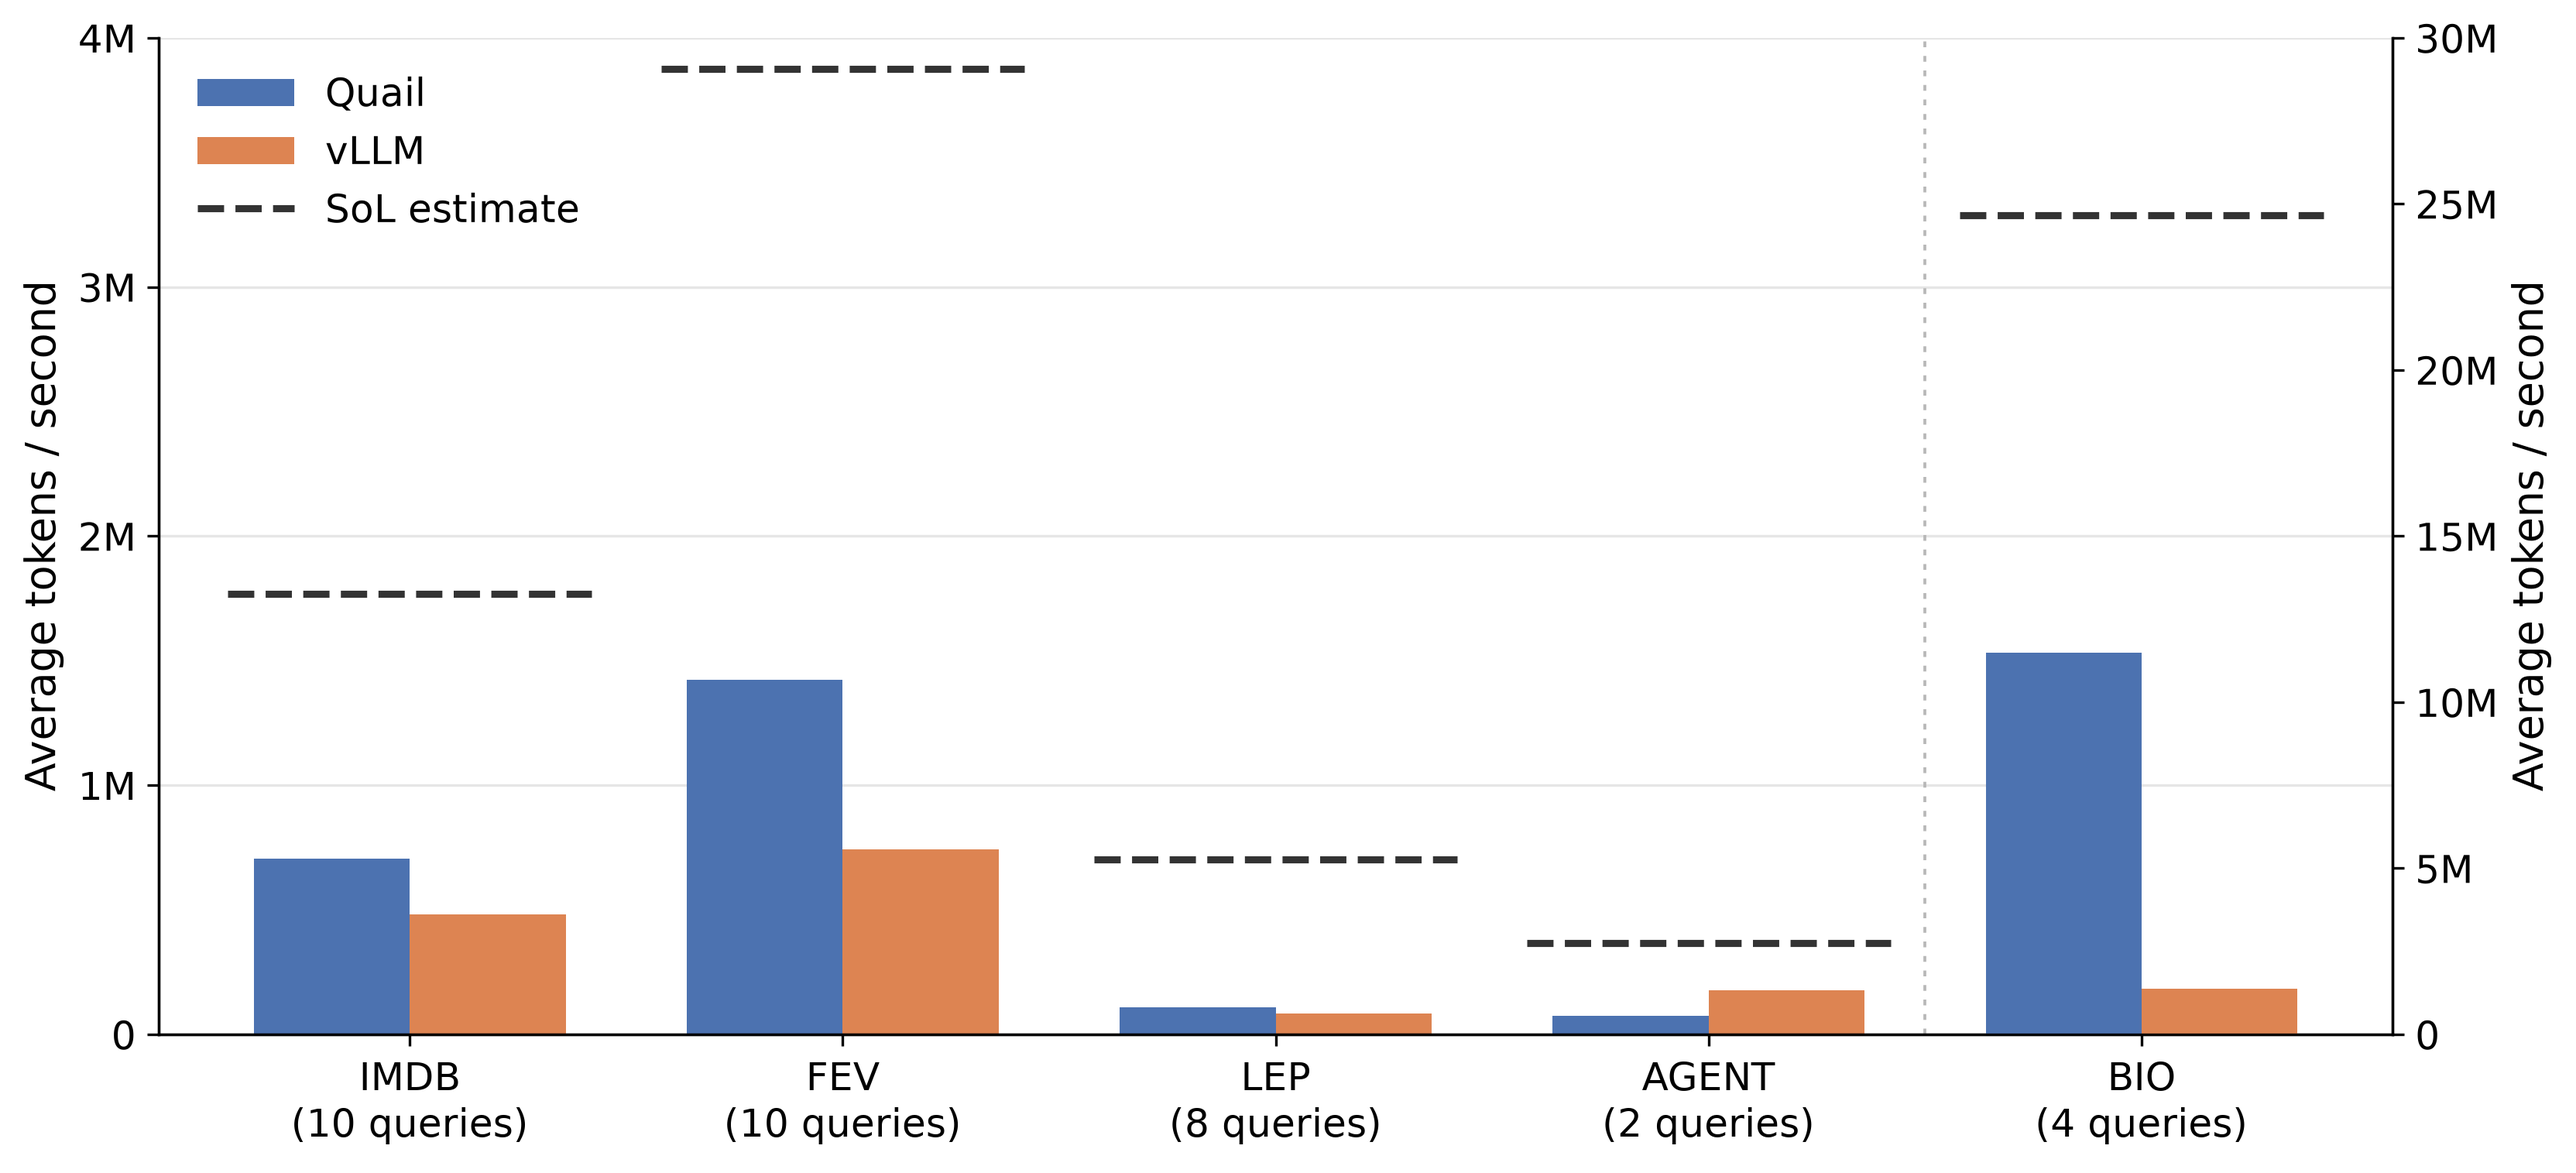
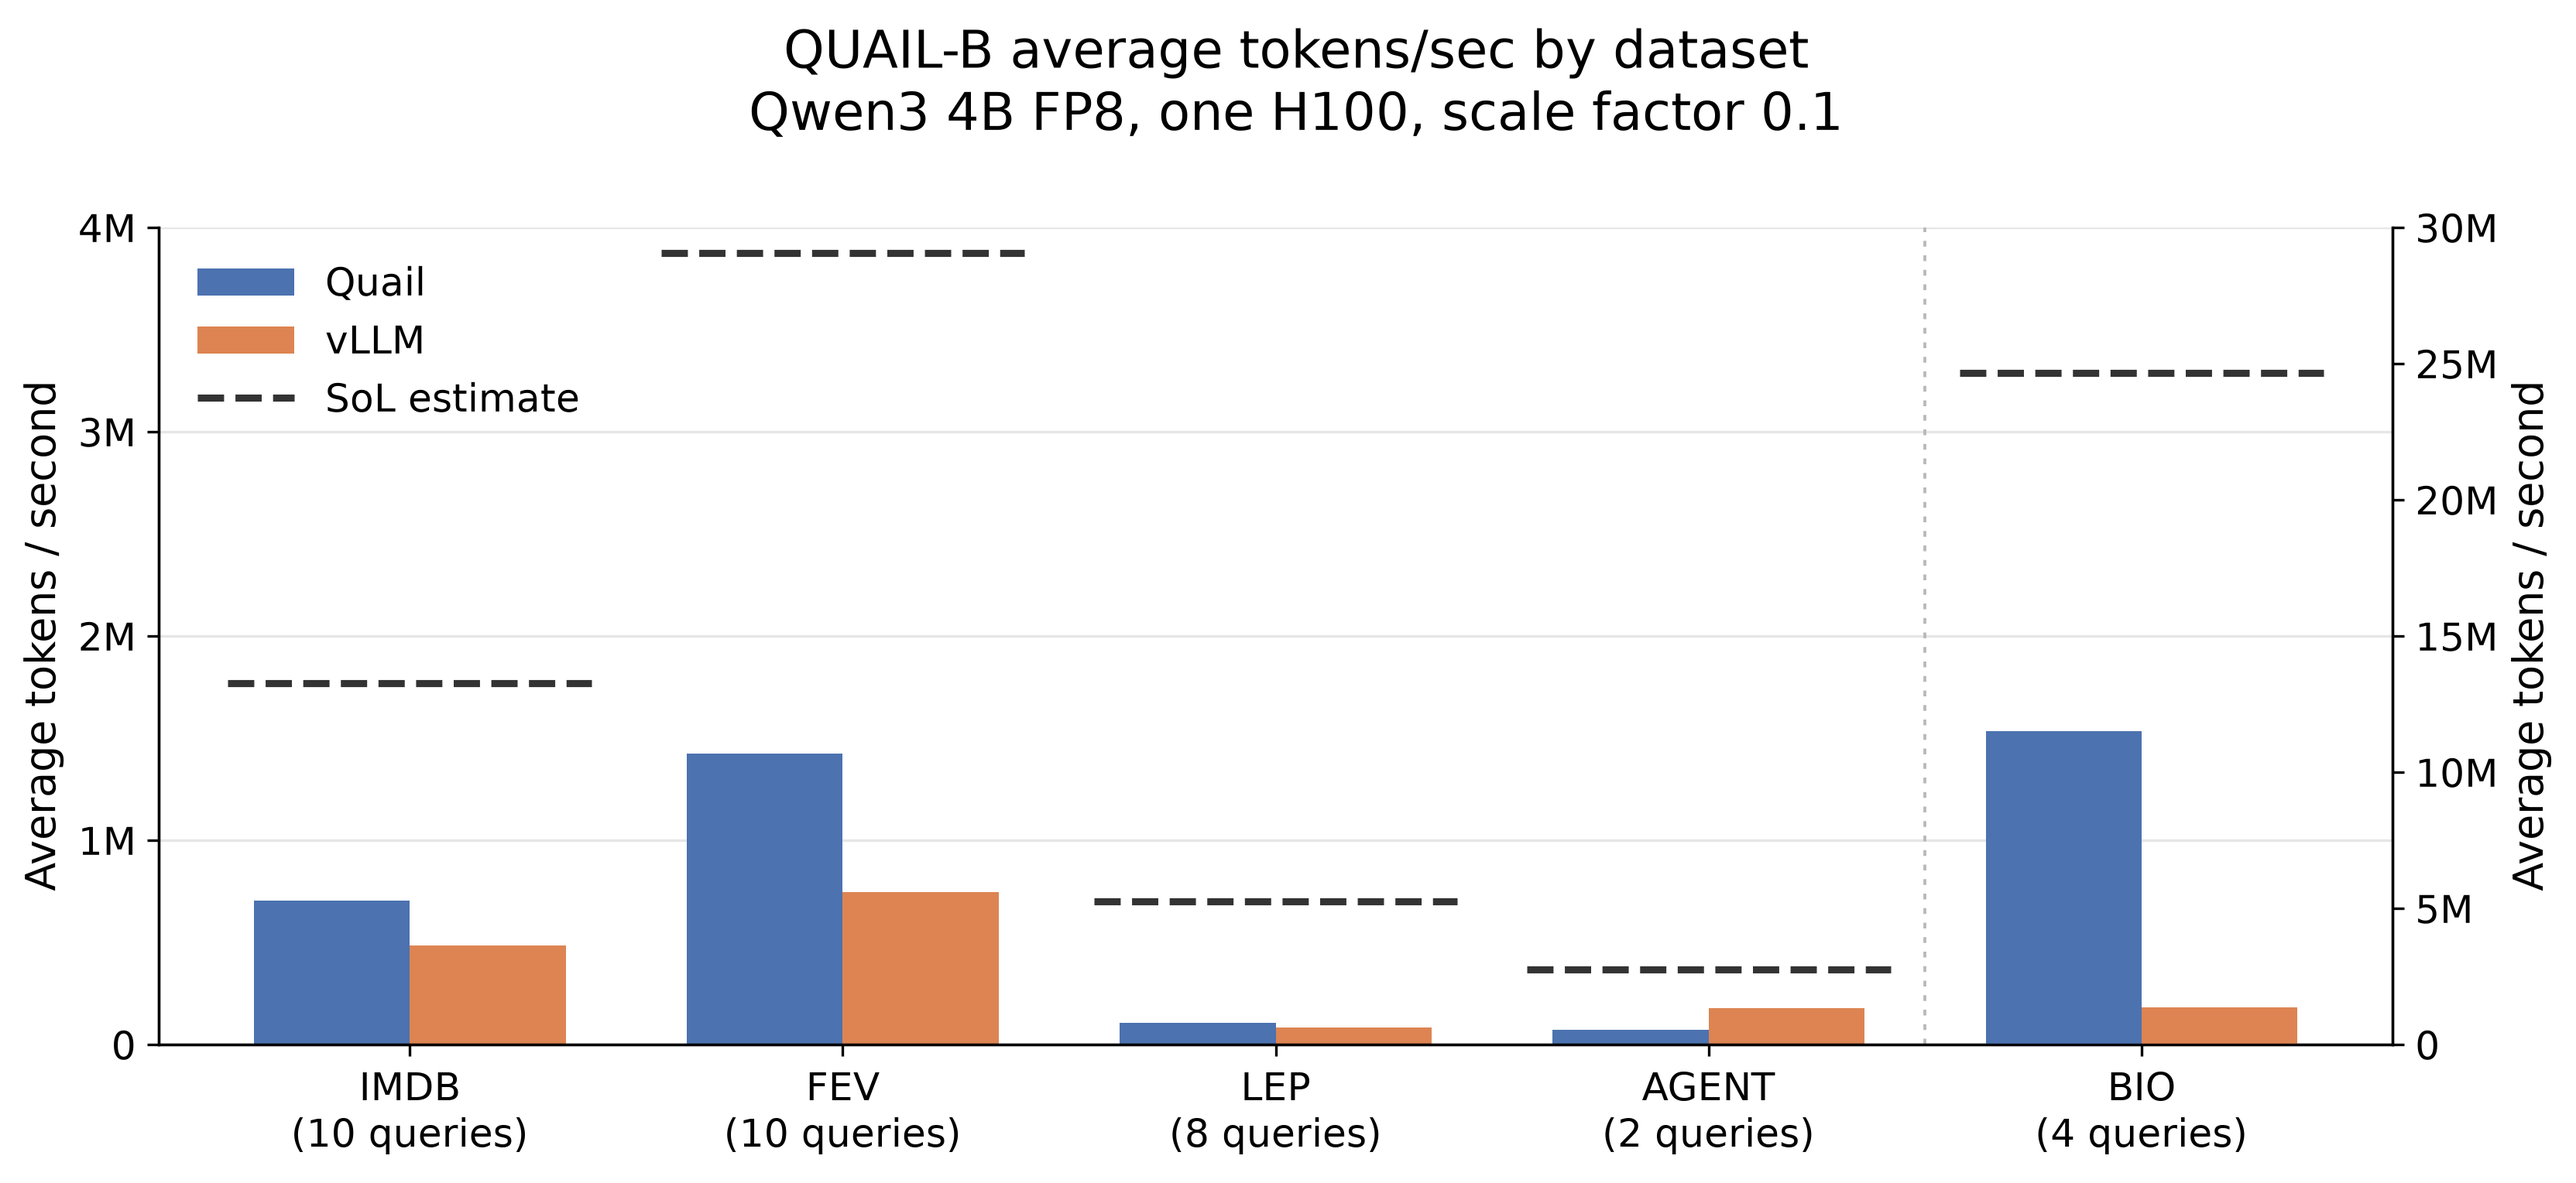
Restore QUAIL-B setup title on headline chart

diff --git a/blogs/intro/make_headline_tok_per_sec.py b/blogs/intro/make_headline_tok_per_sec.py
@@ -130,6 +130,12 @@ def plot_headline(rows, destination: Path):
 
     figure, left_axis = plt.subplots(figsize=(11.8, 5.5))
     right_axis = left_axis.twinx()
+    figure.suptitle(
+        "QUAIL-B average tokens/sec by dataset\n"
+        "Qwen3 4B FP8, one H100, scale factor 0.1",
+        fontsize=16,
+        y=0.98,
+    )
     positions = list(range(len(DATASETS)))
     width = 0.36
 
@@ -232,8 +238,7 @@ def plot_headline(rows, destination: Path):
         handlelength=2.5,
     )
 
-    # No title or subtitle: the blog caption supplies the figure context.
-    figure.subplots_adjust(left=0.085, right=0.90, bottom=0.18, top=0.96)
+    figure.subplots_adjust(left=0.085, right=0.90, bottom=0.18, top=0.82)
     destination = Path(destination)
     figure.savefig(destination.with_suffix(".pdf"), bbox_inches="tight")
     figure.savefig(destination.with_suffix(".png"), dpi=300, bbox_inches="tight")
